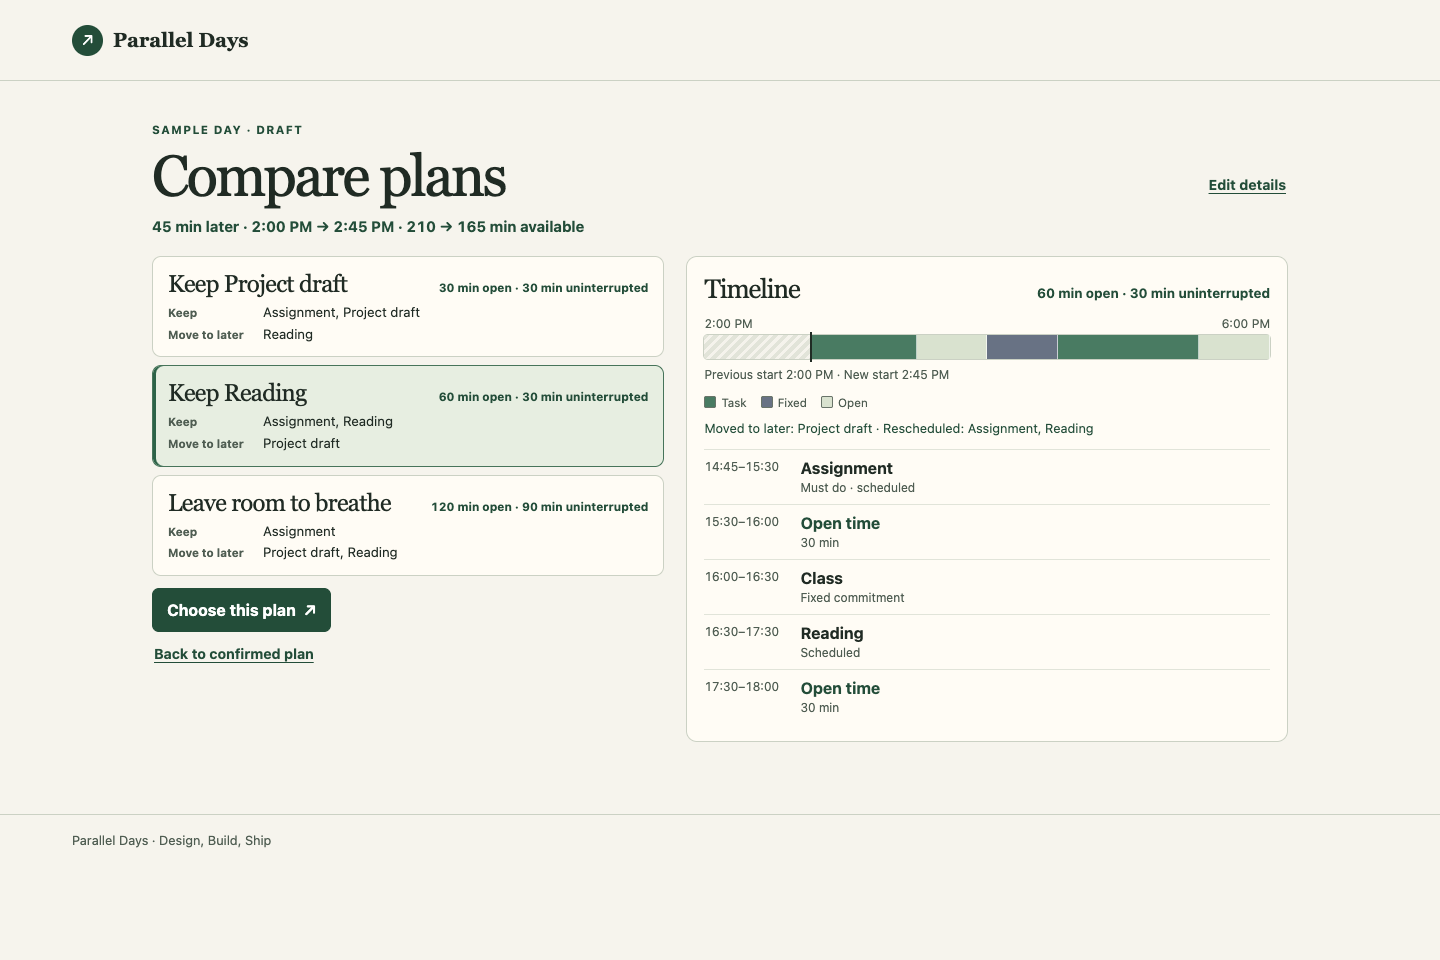
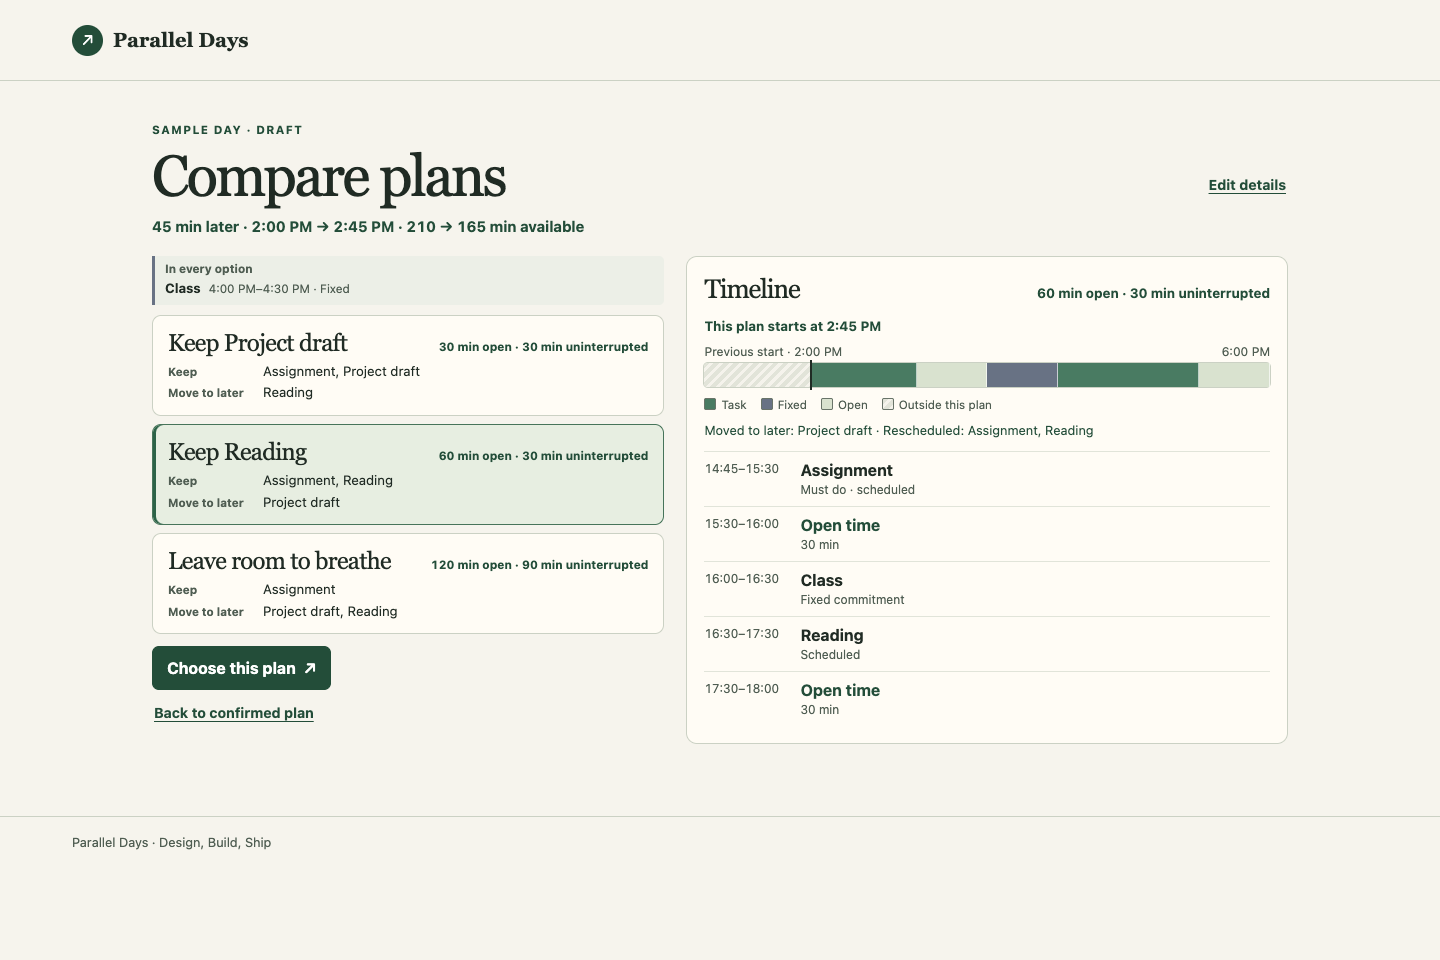
Record v2 user trials and verified design changes

diff --git a/docs/USER_TRIALS.md b/docs/USER_TRIALS.md
@@ -1,10 +1,36 @@
 # Real user trial notes
 
-Status: **one reported desktop trial**. The participant's name, date, and unobserved pauses were not provided. Their report below is user supplied; it is not an agent simulation. Mobile was not tested by this participant.
+## v2 follow-up · November 26, 2026
+
+Both participants independently planned and replanned in Chrome on a computer, explained their chosen trade-offs and longest uninterrupted gap, and reported seeing **Confirmed**. The elapsed times come from the participant reports. A trial on a physical phone is still pending.
+
+| Participant | First comparison | Replan comparison | Where they hesitated |
+| --- | ---: | ---: | --- |
+| A · desktop Chrome | 33 seconds | 7 seconds | The Keep list showed dinner and lunch prep. They scrolled to the timeline to verify a fixed 7:00–7:30 PM phone call was still scheduled. |
+| B · desktop Chrome | About 45 seconds | About 7 seconds | The draft reported a new 5:05 PM start, but the left edge of the timeline still said 4:20 PM. They checked the first task to confirm where the revised plan began. |
+
+### Participant A
+
+- **Decision.** Keep dinner, the fixed phone call, and lunch prep. Move folding laundry to tomorrow. Preparing lunch makes the next morning easier.
+- **Time understood.** Longest uninterrupted gap was 15 minutes from 8:00 to 8:15 PM.
+- **Design response.** Show the names and times of fixed and protected blocks above the option cards under **In every option**.
+
+### Participant B
+
+- **Decision.** Keep the project draft, course reading, and the fixed team meeting. Move note organization to later.
+- **Time understood.** 15 minutes open in two gaps of 5 and 10 minutes. The longest was 7:10–7:20 PM.
+- **Reported hesitation.** “我停了一下，想确认这条时间轴是从 4:20 还是 5:05 开始的。”
+- **Design response.** State when the selected plan actually starts, label the old axis boundary as **Previous start**, and identify shaded time outside the plan.
+
+Both reports met the project’s time targets. Each participant still needed to inspect timeline details to establish a fact needed for the decision. The follow-up changes place those facts alongside the comparison. Recheck both points with the next participant on a phone.
+
+## v1 trial
+
+The participant's name and trial date were unreported. This trial was on a computer.
 
 Ask a graduate student about a recent day that ran late. Then give this task without coaching: “Use the site to plan the rest of your day, choose a version you would actually follow, then imagine you lost another 30 minutes and choose again.” Observe first; ask follow-up questions afterward.
 
-## Participant 1 — desktop, date not supplied
+### Participant 1 — desktop, date not supplied
 
 - **Actions reported:** Tried sample day → compared options → confirmed and saved → clicked **Something changed**. Also entered test tasks and protected time, checked an insufficient-time error, and refreshed to verify persistence.
 - **What worked:** Could understand the product's purpose and the trade-offs among keeping Project draft, keeping Reading, or doing only must-do work. The calm visual style fit the situation. Protected time stayed protected. The 240-minute must-do task against 165 available minutes produced a specific error with repair options. Editing a draft did not overwrite the confirmed plan; the confirmed plan survived refresh.
@@ -15,23 +41,3 @@ Ask a graduate student about a recent day that ran late. Then give this task wit
 - **Exact quote:** “如果只改一个地方，我会优先改 Something changed。用户已经因为意外损失了时间，此时最有吸引力的体验是：‘我又少了 45 分钟’→马上看到更新后的选择。”
 - **Other exact quote:** “整体感受：产品定位能理解，方案比较有价值；最需要改善的是‘被打断后，快速调整’的体验。”
 - **Issue to fix first:** Give direct lost-time shortcuts and immediate comparison while preserving the confirmed plan until the user confirms a new one.
-
-## Participant 2 — pending
-
-- Date and context:
-- What they clicked or said, in order:
-- Where they hesitated or asked for help:
-- Could they explain what their choice kept and postponed?
-- Could they find and revise their confirmed plan?
-- Exact quote (original language):
-- Issue to fix:
-
-## Participant 3 — pending
-
-- Date and context:
-- What they clicked or said, in order:
-- Where they hesitated or asked for help:
-- Could they explain what their choice kept and postponed?
-- Could they find and revise their confirmed plan?
-- Exact quote (original language):
-- Issue to fix:

diff --git a/docs/VERIFICATION.md b/docs/VERIFICATION.md
@@ -1,13 +1,18 @@
 # Parallel Days verification
 
+## v2 usability follow-up · November 26, 2026
+
+- Two desktop Chrome participant reports informed the follow-up. Both reported completing independently. A physical-phone trial remains open. [Trial notes](USER_TRIALS.md)
+- On production at 390px and 1440px, fresh Chromium sessions exercised both reported scenarios with synthetic schedules. The fixed 7:00–7:30 PM commitment appeared above the cards in both options. The 4:20 → 5:05 PM scenario showed the previous start, the current start, and the portion outside the revised plan. Its 5- and 10-minute gaps and confirmed 5:05 PM axis were verified.
+- The sample still fit its first two options on the first screen at 390px. The comparison screenshots below show the follow-up release. The other views were carried forward from the initial release. [Follow-up production deployment](https://vercel.com/darius-e0cc/project/B49QXy8qRYop7SnrTuy2qafECYkt)
+
 ## v2 · November 26, 2026
 
 - `npm test` passed 11 scheduler tests. Coverage includes a single 20-minute task, a 10-minute protected block, exact open intervals, window clipping, completed tasks, infeasible must-do work, and zero open time.
 - A fresh Chromium context at both widths completed the live personal and sample flows. The checks covered a past-start repair, a saved personal plan surviving refresh, sample isolation, keyboard option selection, a fixed class retaining its position, and last-change details.
 - The sample's 45-minute delay changed available time from 210 to 165 minutes. The three options showed total and longest open time of 30/30, 60/30, and 120/90 minutes. The reading option listed 15:30–16:00 and 17:30–18:00.
 - Browser checks covered legacy v1 restore, a mismatched saved record, simultaneous confirmations from two tabs, storage failure and retry, and a draft confirmed after midnight. See the [security pass](SECURITY_REVIEW.md).
-- The public URL served all five runtime files byte-for-byte from application commit `a568518`. Course materials, the security report, agent settings, dotenv and Git metadata returned 404. [Production deployment](https://vercel.com/darius-e0cc/project/CvgFdS4WeAdM43c2e8EqNVXXEASM)
-- These screenshots are browser viewport checks. Real-user testing on a physical phone and v2 participant feedback are pending. See the [trial notes](USER_TRIALS.md).
+- The initial v2 deployment matched application commit `a568518` byte-for-byte across all five runtime files. Course materials, the security report, agent settings, dotenv and Git metadata returned 404. [Initial production deployment](https://vercel.com/darius-e0cc/project/CvgFdS4WeAdM43c2e8EqNVXXEASM)
 
 | View | 390px | 1440px |
 | --- | --- | --- |

diff --git a/docs/V2_HANDOFF.md b/docs/V2_HANDOFF.md
@@ -11,10 +11,10 @@
 ## 60–90 second demo
 
 1. Open the homepage in a fresh browser tab and choose **See a sample plan**. The afternoon starts at 2:00 PM with 210 usable minutes after class.
-2. Choose and confirm **Fit everything in**. Then click **Something changed → Start at 2:45 PM (+45 min)**. The class stays at 4:00 PM and available time drops to 165 minutes.
+2. Choose and confirm **Fit everything in**. Then click **Something changed → Start at 2:45 PM (+45 min)**. **In every option** shows the class at 4:00 PM. The revised timeline labels 2:00 PM as the previous start and shows 2:45 PM as the new start. Available time drops to 165 minutes.
 3. Compare **Keep Project draft** with **Keep Reading**. The reading option leaves 60 minutes open, in two 30-minute gaps. The draft option leaves one 30-minute gap.
 4. Ask which option preserves a whole hour for dinner or rest. Switch to **Leave room to breathe** to show its 90-minute uninterrupted block. Confirm it and show **Last change**.
 
 ## Follow-up trial
 
-Real-user v2 testing is pending, including a test on a physical phone. Give two or three target users the prompt in [the execution plan](V2_PLAN.md#5-验收用例与展会脚本), without explaining the inputs or choices. Save actual timing, hesitation, and feedback in [USER_TRIALS.md](USER_TRIALS.md). The browser screenshots document responsive QA.
+Two desktop Chrome participants completed the v2 flow independently. Their reports guided the shared commitments summary and the timeline start labels. A physical-phone trial remains open. In that session, check whether the participant can identify the fixed commitment and the revised start directly from the comparison. [Trial notes](USER_TRIALS.md)

diff --git a/README.md b/README.md
@@ -14,6 +14,7 @@ Choose **Plan the rest of today** to enter your times and tasks, or **See a samp
 | People learned time and task rules after submitting. The wide remove control was unclear. | Task limits appear beside the fields. A single task, a 20-minute estimate, and a 10-minute protected block all work. Each row has a labeled Remove action. |
 | Total open minutes didn't say when the time was available. | Each option shows both total and longest uninterrupted open time. A shared timeline shows the exact intervals and keeps fixed commitments anchored. |
 | Relative delay shortcuts made it hard to know what was changing. | Each quick action names the resulting start time. Drafts preserve the saved plan. The next confirmation shows the latest change. |
+| In v2 trials, participants had to inspect the timeline to verify that a fixed commitment survived and when the revised plan actually started. | The comparison shows shared commitments above the cards and labels the previous and current start times. |
 
 ## Run locally
 
